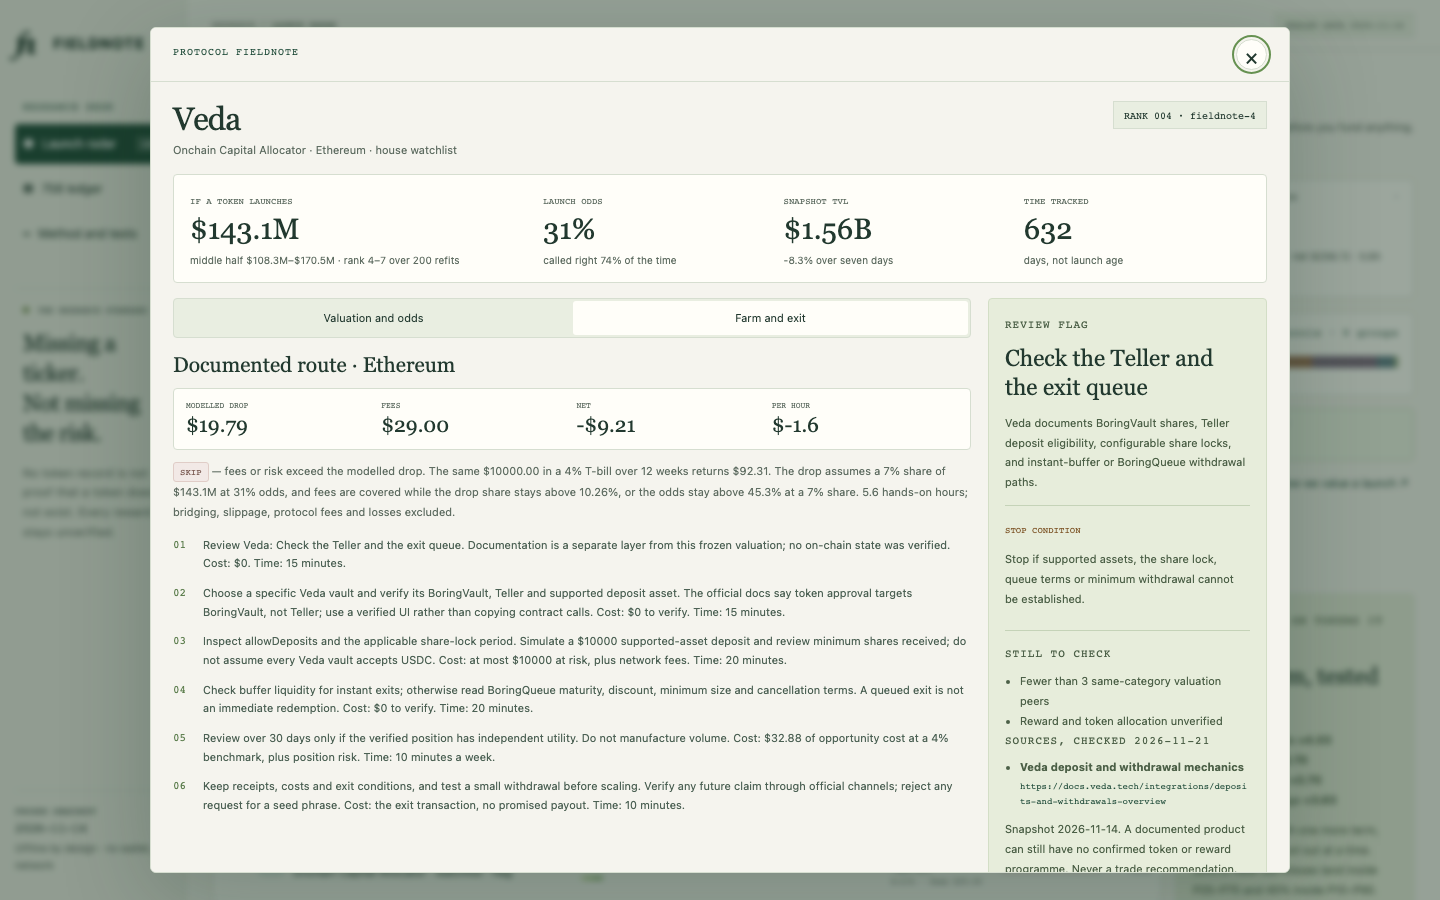
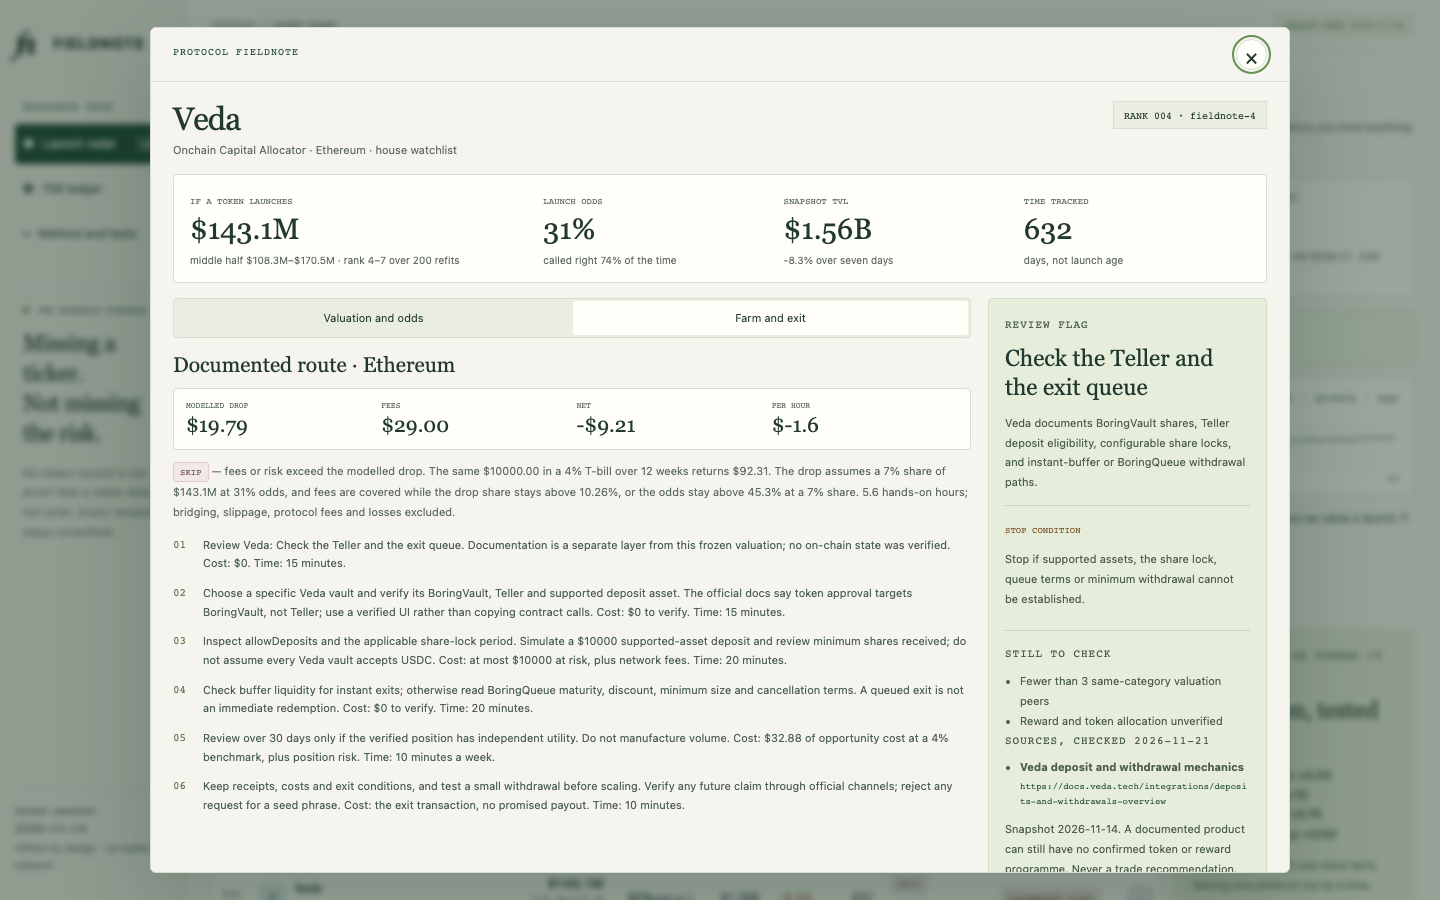
feat: draw the comps curve and let the board leave the page
Add an inline SVG scatter of the traded-token comparables with the fitted
size curve beside the ledger, a CSV export of the whole board, a bootstrap
rank span under each rank, and a watchlist capture in the screenshot set.

diff --git a/dashboard/app.css b/dashboard/app.css
@@ -3,7 +3,7 @@
 .side{position:fixed;inset:0 auto 0 0;width:186px;background:#ecede4;border-right:1px solid var(--line);padding:26px 15px;display:flex;flex-direction:column}.brand{display:flex;align-items:center;gap:8px;text-decoration:none;font-size:15px;font-weight:800;letter-spacing:.8px}.brand i{font:italic 30px var(--serif);letter-spacing:-9px;width:30px}.side-label{margin:38px 8px 10px}.side nav{display:grid;gap:5px}.side nav a{display:flex;align-items:center;gap:8px;padding:11px 8px;border-radius:4px;text-decoration:none;font-size:12px}.side nav a.on{background:var(--green);color:#fff}.side nav a b{margin-left:auto;font:9px var(--mono);background:#ffffff25;padding:3px 5px}.side-note{margin-top:34px;padding:17px 8px;border-top:1px solid var(--line);font:8px var(--mono);letter-spacing:.4px}.side-note p{font:23px/1.3 var(--serif);letter-spacing:-.5px;margin:14px 0}.side-note small{font:11px/1.8 var(--sans);color:var(--muted)}.side-foot{margin-top:auto;border-top:1px solid var(--line);padding-top:15px;display:grid;gap:5px}.side-foot span{font:9px var(--mono)}.side-foot strong{font:12px var(--mono)}.side-foot small{font:10px/1.7 var(--sans);color:var(--muted)}
 .side-label,.eyebrow{font:10px/1.5 var(--mono);letter-spacing:1px;color:var(--green)}.eyebrow{margin:0 0 7px}main{margin-left:186px}.top{height:50px;border-bottom:1px solid var(--line);display:flex;align-items:center;justify-content:space-between;padding:0 26px;font:9px var(--mono);color:var(--muted)}.seal{padding:6px 9px;background:var(--light);border:1px solid var(--line)}.view{padding:20px 26px;max-width:1560px;margin:auto}.row{display:flex;align-items:center;justify-content:space-between;gap:12px}.head{margin-bottom:14px}h1{font:42px/1.15 var(--serif);letter-spacing:-1.6px;margin:0 0 7px}h1 em{color:var(--green)}.intro{font-size:12px;color:var(--muted);margin:0}.head-note{border-left:1px solid var(--line);padding-left:18px;font:10px var(--mono)}.head-note span{display:block;margin-top:6px;font:11px var(--sans);color:var(--muted)}h2{font:20px var(--serif);margin:0}
 .card,.kpis,.strip,.table-wrap,.mcard,.peer,.source,.facts,.econ{border:1px solid var(--line);border-radius:4px;background:var(--white)}.kpis{display:grid;grid-template-columns:repeat(6,1fr);margin-bottom:14px}.kpi{padding:11px 14px;border-right:1px solid var(--line)}.kpi:last-child{border:0}.kpi small{display:flex;justify-content:space-between;font:9px/1.4 var(--mono);color:var(--muted)}.kpi strong{display:block;font:24px/1.25 var(--serif);margin:5px 0}.kpi strong u{font:11px var(--sans);color:var(--muted);text-decoration:none}.kpi.hi strong{color:var(--farm)}.kpi.warn strong{color:var(--thin)}
-.ledger-bar{display:flex;height:12px;border-radius:3px;overflow:hidden;margin:4px 0 6px}.ledger-bar i{display:block}.ledger-legend{display:flex;flex-wrap:wrap;gap:9px;font:8px var(--mono);color:var(--muted)}.strip{display:flex;flex-wrap:wrap;gap:6px;padding:8px 11px;margin:12px 0;font:9px/1.6 var(--mono);background:#eef4e6;border-color:#cfe0be}.strip b{color:var(--farm)}.panel{display:grid;grid-template-columns:minmax(0,1fr) 238px;gap:14px;align-items:start}
+.ledger-bar{display:flex;height:12px;border-radius:3px;overflow:hidden;margin:4px 0 6px}.ledger-bar i{display:block}.ledger-legend{display:flex;flex-wrap:wrap;gap:9px;font:8px var(--mono);color:var(--muted)}.strip{display:flex;flex-wrap:wrap;gap:6px;padding:8px 11px;margin:12px 0;font:9px/1.6 var(--mono);background:#eef4e6;border-color:#cfe0be}.strip b{color:var(--farm)}.chart svg{display:block;width:100%;height:auto}.panel{display:grid;grid-template-columns:minmax(0,1fr) 238px;gap:14px;align-items:start}.duo{display:grid;grid-template-columns:minmax(0,1fr) minmax(0,1.15fr);gap:14px;align-items:start;margin-bottom:12px}
 .bar{display:flex;flex-wrap:wrap;align-items:center;gap:9px;margin-bottom:9px;font-size:10px;color:var(--muted)}.bar label{display:flex;align-items:center;gap:6px}.seg{display:flex;gap:2px;padding:2px;border:1px solid var(--line);border-radius:4px;background:var(--light)}.seg button{background:none;border:0;border-radius:3px;font-size:10px;padding:7px 9px}.seg button.on{background:var(--white);box-shadow:0 1px 3px #17351f14}.search{display:flex;gap:7px;align-items:center;border:1px solid var(--line);border-radius:4px;background:var(--white);padding:6px 10px}.search input{font-size:11px;width:150px;border:0;background:none;outline:none}select{border:1px solid var(--line);background:var(--white);border-radius:3px;font-size:10px;padding:6px;max-width:140px}
 .table-wrap{overflow:auto;position:relative}table{border-collapse:collapse;width:100%;white-space:nowrap;text-align:left}th{background:#ecf0e4;font:8px var(--mono);color:var(--muted);padding:10px 9px;border-bottom:1px solid var(--line)}th button{font:inherit;padding:0;background:none;border:0}td{padding:10px 9px;border-bottom:1px solid #e4e8dc;font-size:11px}tr:last-child td{border-bottom:0}tbody tr:hover{background:#f5f7ed}.num{text-align:right;font-variant-numeric:tabular-nums}.id{font:10px var(--mono);color:var(--muted)}.who button{display:flex;align-items:center;gap:8px;border:0;padding:0;background:none;text-align:left}.who strong{display:block;font-size:11px;max-width:170px;white-space:normal}.who small{display:block;font:9px var(--muted);margin-top:2px}.ico{display:grid;place-items:center;flex:none;width:27px;height:27px;border-radius:6px;border:1px solid var(--line);background:var(--icon-bg);color:var(--icon-ink);font:13px var(--serif)}.val strong{display:block;font-size:12px}.val small{display:block;font:8px var(--mono);color:var(--muted);margin-top:2px}.pos{color:var(--farm)}.neg{color:#9c5f43}.muted{color:var(--muted)}
 .kpi em{font:10px/1.5 var(--sans);color:var(--muted);font-style:normal}
@@ -20,6 +20,6 @@
 dialog{width:1140px;max-width:95vw;max-height:94vh;border:1px solid var(--line);border-radius:6px;padding:0;background:var(--paper);color:var(--ink);box-shadow:0 24px 90px #10301f3d}dialog::backdrop{background:#122d206b;backdrop-filter:blur(3px)}.dlg-top{position:sticky;top:0;z-index:2;display:flex;justify-content:space-between;align-items:center;padding:11px 22px;border-bottom:1px solid var(--line);background:var(--paper)}.x{border:1px solid var(--line);border-radius:50%;width:31px;height:31px;background:var(--white);font-size:22px}#dlg{padding:19px 22px}.d-head{display:flex;justify-content:space-between;align-items:start;gap:14px}.d-head h2{font:32px var(--serif);letter-spacing:-1px;margin:0 0 5px}.d-sub{font-size:11px;color:var(--muted);margin:0}.d-rank{font:10px var(--mono);padding:7px 10px;background:var(--light);border:1px solid var(--line)}
 .d-kpi{display:grid;grid-template-columns:1.5fr 1fr 1fr 1fr;gap:14px;border:1px solid var(--line);border-radius:4px;background:var(--white);padding:13px 16px;margin:15px 0}.d-kpi small{font:9px var(--mono);color:var(--muted)}.d-kpi strong{display:block;font:29px var(--serif);margin:3px 0}.d-cols{display:grid;grid-template-columns:minmax(0,1fr) 279px;gap:17px;align-items:start}.tabs{display:flex;gap:2px;padding:2px;border:1px solid var(--line);border-radius:4px;background:var(--light);margin-bottom:15px}.tabs button{flex:1;background:none;border:0;border-radius:3px;font-size:11px;padding:9px 6px}.tabs button.on{background:var(--white)}.d-cols h3,.mcard h3{font:21px var(--serif);margin:0 0 8px}.note{font:11px/1.8 var(--sans);color:var(--muted)}.warn{background:#f3e8d5;border-left:3px solid #b68745;padding:10px 12px;font:11px/1.8 var(--sans);color:#78592f}.peer{overflow:auto;margin:9px 0 15px}.peer td,.peer th{padding:9px 8px}.peer b{display:block;font-size:11px}.peer i{display:block;font:9px var(--muted);font-style:normal;margin-top:2px}.facts{display:grid;grid-template-columns:repeat(5,1fr);padding:11px 9px;gap:4px}.facts small{display:block;font:9px var(--mono);color:var(--muted)}.facts b{font:12px var(--mono)}.econ{display:grid;grid-template-columns:repeat(4,1fr);gap:9px;padding:12px;margin:11px 0}.econ small{display:block;font:8px var(--mono);color:var(--muted)}.econ b{display:block;font:21px var(--serif);margin-top:3px}.steps{padding:0;list-style:none;counter-reset:s;margin:14px 0 0}.steps li{counter-increment:s;position:relative;padding:0 0 11px 30px;font-size:11px;line-height:1.7;color:#4c6154}.steps li::before{content:counter(s,decimal-leading-zero);position:absolute;left:0;top:2px;font:11px var(--mono);color:#5d7e4e}.side-note2{background:#e7eddb;border:1px solid #d3dec6;border-radius:4px;padding:16px}.side-note2 h3{font:23px/1.25 var(--serif);margin:10px 0}.side-note2 p,.side-note2 li{font-size:11px;line-height:1.8;color:#4c6047}.side-note2 ul{padding-left:15px;margin:0}.stop{border-block:1px solid #c5d3b8;padding:11px 0;margin:13px 0}.stop b{font:9px var(--mono);color:#80592c}.source{padding:13px;margin:10px 0}.source b{display:block;font-size:12px}.source code{display:block;overflow-wrap:anywhere;white-space:normal;font:10px/1.8 var(--mono);margin:6px 0}
 .grid2{display:grid;grid-template-columns:1fr 1fr;gap:14px;margin:16px 0}.mcard{padding:19px}.mcard.full{grid-column:1/-1}.mcard p{font:12px/1.8 var(--sans);color:var(--muted)}.formula{padding:13px;background:var(--light);font:12px/1.9 var(--mono);white-space:pre-wrap;overflow:auto}.lg{display:flex;flex-wrap:wrap;gap:8px;margin:10px 0}.lg span{border:1px solid var(--line);border-radius:3px;background:var(--white);font:10px var(--mono);padding:5px 7px}#fatal{margin:20px;padding:18px;background:#f6e5da;border:1px solid #bd9171}
-@media(max-width:1250px){.kpis{grid-template-columns:repeat(3,1fr)}.kpi:nth-child(3n){border-right:0}.kpi:nth-child(-n+3){border-bottom:1px solid var(--line)}.panel,.d-cols{grid-template-columns:1fr}.guide{display:none}.side{width:170px;padding:22px 11px}main{margin-left:170px}.head-note{display:none}.d-kpi{grid-template-columns:1fr 1fr}}
+@media(max-width:1250px){.kpis{grid-template-columns:repeat(3,1fr)}.kpi:nth-child(3n){border-right:0}.kpi:nth-child(-n+3){border-bottom:1px solid var(--line)}.panel,.d-cols,.duo{grid-template-columns:1fr}.guide{display:none}.side{width:170px;padding:22px 11px}main{margin-left:170px}.head-note{display:none}.d-kpi{grid-template-columns:1fr 1fr}}
 @media(max-width:760px){.side{position:static;width:auto;padding:14px 16px;display:block}.side-label,.side-note,.side-foot,.side nav a s,.side nav a b{display:none}.side nav{display:flex;gap:3px;margin-top:11px}.side nav a{font-size:10px;padding:9px 6px}main{margin-left:0}.top{height:44px;padding:0 15px;font-size:8px}.view{padding:20px 15px}h1{font-size:38px}.kpis{grid-template-columns:1fr 1fr}.kpi:nth-child(2n){border-right:0}.kpi{padding:10px}.kpi strong{font:22px var(--serif)}.bar{gap:8px}.seg{width:100%;overflow:auto}.seg button{white-space:nowrap;flex:1}.search,.search input{width:100%}.foot{display:block}.foot span{display:block;margin:6px 0}#dlg{padding:15px}.d-kpi{grid-template-columns:1fr 1fr;padding:12px}.d-kpi strong{font:25px var(--serif)}.grid2,.facts,.econ{grid-template-columns:1fr 1fr}.mcard.full{grid-column:auto}.d-head h2{font:27px var(--serif)}.tabs button{font-size:10px;padding:9px 4px}}
 @media(prefers-reduced-motion:reduce){*{scroll-behavior:auto!important}}

diff --git a/dashboard/app.js b/dashboard/app.js
@@ -96,6 +96,44 @@ function guide() {
     ${b ? `<p class="note">Best on the board: ${esc(b.name)}, ${cash(b.net)} net in ${b.hours.toFixed(1)} hands-on hours.</p>` : ''}
     <p class="note">Rewards are unverified and capital can be lost.</p>`;
 }
+/** The comps evidence, drawn: market cap against TVL for the traded tokens, with the fitted size curve. */
+function chart() {
+  const index = new Map((window.FIELDNOTE_SNAPSHOT?.protocols ?? []).map(p => [p.slug, p]));
+  const peers = radar.model.peer_slugs.map(s => index.get(s)).filter(Boolean);
+  if (peers.length < 5 || !$('chart')) return;
+  const W = 900, H = 96, L = 44, R = 8, T = 14, B = 18;
+  const l10 = v => Math.log10(v);
+  const xs = peers.map(p => l10(p.tvl_usd)), ys = peers.map(p => l10(p.mcap_usd));
+  const x0 = Math.floor(Math.min(...xs)), x1 = Math.ceil(Math.max(...xs));
+  const y0 = Math.floor(Math.min(...ys)), y1 = Math.ceil(Math.max(...ys));
+  const px = v => L + (v - x0) / (x1 - x0) * (W - L - R);
+  const py = v => H - B - (v - y0) / (y1 - y0) * (H - T - B);
+  const [b0, b1] = radar.model.coefficients;
+  const short = v => v >= 1e9 ? `$${+(v / 1e9).toFixed(2)}B` : v >= 1e6 ? `$${+(v / 1e6).toPrecision(3)}M` : `$${Math.round(v)}`;
+  const grid = [];
+  for (let t = x0; t <= x1; t++) grid.push(`<line x1="${px(t).toFixed(1)}" y1="${T}" x2="${px(t).toFixed(1)}" y2="${(H - B).toFixed(1)}" stroke="#e3e8da"/><text x="${px(t).toFixed(1)}" y="${H - B + 15}" text-anchor="middle" font-size="9" fill="#5f6d62">${short(10 ** t)}</text>`);
+  for (let t = y0; t <= y1; t++) grid.push(`<line x1="${L}" y1="${py(t).toFixed(1)}" x2="${W - R}" y2="${py(t).toFixed(1)}" stroke="#e3e8da"/><text x="${L - 6}" y="${py(t).toFixed(1)}" text-anchor="end" dominant-baseline="middle" font-size="9" fill="#5f6d62">${short(10 ** t)}</text>`);
+  const line = [];
+  for (let i = 0; i <= 60; i++) {
+    const t = x0 + (x1 - x0) * i / 60;
+    line.push(`${px(t).toFixed(1)},${py(b0 / Math.LN10 + b1 * (t - 8)).toFixed(1)}`);
+  }
+  const dots = peers.map(p => `<circle cx="${px(l10(p.tvl_usd)).toFixed(1)}" cy="${py(l10(p.mcap_usd)).toFixed(1)}" r="2.5" fill="#7fa06a" fill-opacity=".78"><title>${esc(p.name)} · TVL ${money(p.tvl_usd)} · cap ${money(p.mcap_usd)}</title></circle>`).join('');
+  $('chart').innerHTML = `<svg viewBox="0 0 ${W} ${H}" role="img" aria-label="Market cap against TVL for the traded-token comparables, with the fitted size curve.">${grid.join('')}<polyline points="${line.join(' ')}" fill="none" stroke="#1f4b39" stroke-width="1.6"/>${dots}<text x="${L}" y="${T - 4}" font-size="9" fill="#22392f">${peers.length} traded tokens · market cap vs TVL · fitted size curve</text></svg>`;
+  $('chart-note').textContent = `cap = a · TVL^${b1.toFixed(2)} · sector · growth · age`;
+}
+/** The board as a file a reader can take away; built offline, downloaded by the browser. */
+function exportCsv() {
+  const cell = v => /[",\n]/.test(String(v)) ? `"${String(v).replace(/"/g, '""')}"` : String(v);
+  const head = ['rank', 'slug', 'name', 'category', 'tvl_usd', 'change_7d', 'no_token_days', 'launch_odds', 'implied_value_usd', 'p25_usd', 'p75_usd', 'verdict', 'net_usd', 'per_hour_usd', 'plan', 'documented'];
+  const lines = radar.rows.map(p => { const e = scenario(p); return [p.rank, p.slug, p.name, p.category ?? '', p.tvl_usd, p.change_7d ?? '', p.age_days ?? '', p.launch_odds.toFixed(4), p.implied_value_usd, p.p25_usd, p.p75_usd, e.verdict, e.net.toFixed(2), e.tradeable ? e.per_hour.toFixed(2) : '', p.plan.label, p.plan.documented].map(cell).join(','); });
+  const blob = new Blob([`${head.join(',')}\n${lines.join('\n')}\n`], { type: 'text/csv;charset=utf-8' });
+  const url = URL.createObjectURL(blob);
+  const a = document.createElement('a');
+  a.href = url; a.download = `fieldnote-${radar.as_of}.csv`;
+  document.body.appendChild(a); a.click(); a.remove();
+  setTimeout(() => URL.revokeObjectURL(url), 0);
+}
 const icon = p => {
   const hue = [106, 40, 168, 22, 70, 210][[...p.slug].reduce((n, c) => n + c.charCodeAt(0), 0) % 6];
   return `<span class="ico" style="--icon-bg:hsl(${hue} 24% 91%);--icon-ink:hsl(${hue} 24% 32%)" aria-hidden="true">${esc(p.name[0])}</span>`;
@@ -104,7 +142,7 @@ function board() {
   const rows = rowsFor(), max = Math.max(...radar.rows.map(r => r.implied_value_usd));
   state.page = Math.min(state.page, Math.max(0, Math.ceil(rows.length / PAGE) - 1));
   const start = state.page * PAGE;
-  $('body').innerHTML = rows.slice(start, start + PAGE).map(({ p, e }) => `<tr><td class="id">${String(p.rank).padStart(3, '0')}</td>
+  $('body').innerHTML = rows.slice(start, start + PAGE).map(({ p, e }) => `<tr><td class="id">${String(p.rank).padStart(3, '0')}<span class="muted" style="display:block;font-size:8px">${p.rank_low === null ? '' : `${p.rank_low}–${p.rank_high}`}</span></td>
       <td><span class="who"><button data-open="${esc(p.slug)}" aria-label="Open ${esc(p.name)}">${icon(p)}<span><strong>${esc(p.name)}</strong><small>${esc(p.category ?? 'Unclassified')}${p.watchlist ? ' · watchlist' : ''}${p.review_required ? ' · flag' : ''}</small></span></button></span></td>
       <td class="num val"><strong>${money(p.implied_value_usd)}</strong><small>${money(p.p25_usd)}–${money(p.p75_usd)}</small><span class="sbar" style="width:${Math.max(3, p.implied_value_usd / max * 42)}px" aria-hidden="true"></span></td>
       <td class="num"><strong>${(p.launch_odds * 100).toFixed(0)}%</strong><small>${p.rank_low === null ? '' : `rank ${p.rank_low}–${p.rank_high}`}</small></td>
@@ -241,6 +279,7 @@ function bind() {
   const reset = () => { Object.assign(state, { verdict: 'all', scope: 'all', search: '', category: '', chain: '', review: false, page: 0 });
     $('search').value = ''; $('category').value = ''; $('chain').value = ''; $('review').checked = false; sync(); board(); };
   $('reset').addEventListener('click', reset); $('empty-reset').addEventListener('click', reset);
+  $('csv').addEventListener('click', exportCsv);
   $('prev').addEventListener('click', () => { state.page--; board(); });
   $('next').addEventListener('click', () => { state.page++; board(); });
   for (const [id, key, ev] of [['ledger-search', 'ledgerSearch', 'input'], ['ledger-status', 'ledgerGroup', 'change']]) {
@@ -252,7 +291,7 @@ function bind() {
 }
 try {
   radar = buildRadar(validateSnapshot(window.FIELDNOTE_SNAPSHOT), window.FIELDNOTE_PLANS ?? {});
-  kpis(); ledgerStrip(); guide();
+  kpis(); ledgerStrip(); guide(); chart();
   $('category').innerHTML = '<option value="">All sectors</option>' + [...new Set(radar.rows.map(p => p.category).filter(Boolean).sort(cmp))].map(c => `<option value="${esc(c)}">${esc(c)}</option>`).join('');
   $('chain').innerHTML = '<option value="">All chains</option>' + [...new Set(radar.rows.flatMap(p => p.chains).sort(cmp))].map(c => `<option value="${esc(c)}">${esc(c)}</option>`).join('');
   sync(); board(); ledger(); model(); bind(); route();

diff --git a/dashboard/index.html b/dashboard/index.html
@@ -18,8 +18,11 @@
 <section id="radar-view" class="view">
   <div class="row head"><div><p class="eyebrow">THE PRE-TOKEN FIELD GUIDE</p><h1>Value it. Price the <em>odds.</em> Cost the exit.</h1><p class="intro">Two fitted models over one frozen snapshot: what a token would be worth, and how likely one arrives.</p></div><div class="head-note">SNAPSHOT ≠ REALITY<span>Verify the missing pieces before you fund anything.</span></div></div>
   <div class="kpis" id="kpis"></div>
-  <section class="card" style="padding:12px 14px;margin-bottom:12px"><div class="row" style="margin-bottom:9px"><p class="eyebrow" style="margin:0">EVERY PROTOCOL IN ONE GROUP</p><span class="eyebrow" id="ledger-total"></span></div><div class="ledger-bar" id="ledger-bar"></div><div class="ledger-legend" id="ledger-legend"></div></section>
   <div class="strip" id="strip"></div>
+  <div class="duo">
+    <section class="card" style="padding:12px 14px"><div class="row" style="margin-bottom:9px"><p class="eyebrow" style="margin:0">EVERY PROTOCOL IN ONE GROUP</p><span class="eyebrow" id="ledger-total"></span></div><div class="ledger-bar" id="ledger-bar"></div><div class="ledger-legend" id="ledger-legend"></div></section>
+    <section class="card" style="padding:12px 14px"><div class="row" style="margin-bottom:6px"><p class="eyebrow" style="margin:0">WHERE THE VALUE COMES FROM</p><span class="eyebrow" id="chart-note"></span></div><div class="chart" id="chart"></div></section>
+  </div>
   <div class="row head"><h2>The board <span class="muted" id="caption"></span></h2><button id="method-link" style="background:none;border:0;color:var(--green);font-size:11px">How we value a launch ↗</button></div>
   <div class="bar">
     <div class="seg" role="group" aria-label="Verdict"><button data-verdict="all" class="on" aria-pressed="true">All</button><button data-verdict="farm" aria-pressed="false">Farm <b id="n-farm"></b></button><button data-verdict="marginal" aria-pressed="false">Marginal <b id="n-marginal"></b></button><button data-verdict="skip" aria-pressed="false">Skip <b id="n-skip"></b></button></div>
@@ -32,7 +35,7 @@
     <label>Deposit <select id="deposit"><option value="10000">$10,000</option><option value="1000">$1,000</option><option value="5000">$5,000</option><option value="25000">$25,000</option><option value="plan">0.02% of TVL</option></select></label>
     <label>Drop share <select id="share"><option value="0.035">3.5%</option><option value="0.07" selected>7%</option><option value="0.14">14%</option></select></label>
     <label><input id="review" type="checkbox"> Flags only</label>
-    <button id="reset" style="background:none;border:0;color:var(--green);font-size:10px">Reset</button><span id="count" role="status"></span>
+    <button id="reset" style="background:none;border:0;color:var(--green);font-size:10px">Reset</button><button id="csv" class="seg">CSV</button><span id="count" role="status"></span>
   </div>
   <div class="panel"><div class="table-wrap">
     <table id="board"><caption class="sr-only">Protocols ranked by conditional implied value. Odds, verdict and cost are fitted or modelled, never promises.</caption>
